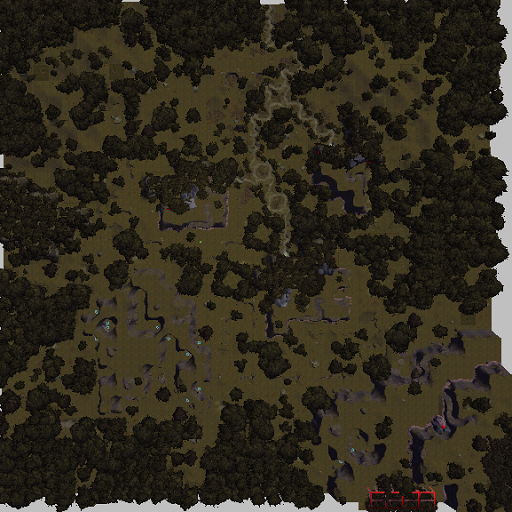
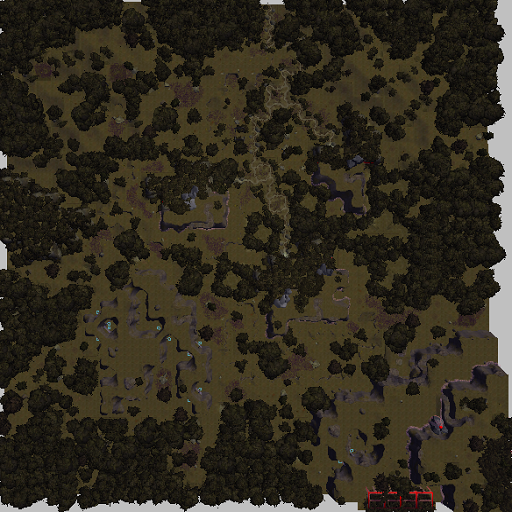
v220412

diff --git a/common.js b/common.js
@@ -13,24 +13,24 @@ var map = {
     csize: 256,
     csize_noscr: 100,
     layers: [[
-        //1              2                3                4                5                6                  7                 8                  9                  10                 11                 12                 13                 14                 15                 16                 17                 18                 19                 20                21                22                     23                 24                 25                 26              27                  28              29              30
-        '0map',          '0map',          '0map',          '0map',          '0map',          '0map',            '0map',            '0map',            '0map',            '0map',            '0map',            '0map',            '0map',            '0map',            '0map',            '0map',            '0map',            '0map',            '0map',            '0map',           '0map',           '0map',                '0map',            '0map',            '0map',            '0map',         '0map',             '0map',         '0map',         '0map',       
-        '0map',          '0map',          '0map',          '0map',          '0map',          '0map',            '0map',            '0map',            '0map',            '0map',            '0map',            '0map',            '0map',            '0map',            '0map',            '0map',            '0map',            '0map',            '0map',            '0map',           '0map',           '0map',                't_varyth_torf_w', 't_varyth_tor',    't_varyth_torf_e', '0map',         '0map',             '0map',         '0map',         '0map',       
-        't_zazesspur_nw','t_zazesspur_ne','0map',          '0map',          '0map',          '0map',            '0map',            '0map',            '0map',            '0map',            '0map',            '0map',            '0map',            '0map',            '0map',            '0map',            '0map',            '0map',            't_lhestyn_quay',  't_masamont_road','t_masamount',    't_masamount_wudn',    't_varyth_torf_sw','t_varyth_torf_s', 't_varyth_torf_se','0map',         '0map',             '0map',         '0map',         '0map',       
-        't_zazesspur_sw','t_zazesspur_se','t_venezir_ne'  ,'SulZaz2',       '0map',          '0map',            't_tethyrcast_nw', 't_tethyrcast_n',  't_tethyrcast_ne', 'SuldusBard1',     '0map',            'IthmonSulW',      't_hostim_quay',   't_ithmn_sul_e',   't_ithmn_sul_e1',  't_ithmn_sul_e2',  't_grannox',       't_grannox_farms', 't_lhestynheart',  't_freelm_farms', 't_freelmanse',   't_masamount_wuds',    't_varyth_plain_w','t_varyth_plain_c','t_varyth_plain_e','0IthalRoadWE', '0IthalRoadWES',    '0IthalRoadWE', '0IthalRoadWS', '0map',       
-        't_venezir_sw',  't_venezir_s',   't_venezir_se'  ,'SulZaz3',       'SulZaz4',       'SulZaz5',         't_tethyrcast_w',  't_tethyrcast',    't_tethyrcast_e',  't_alemwood_nw',   't_alemwood_ne',   't_hostim_hill_nw','t_hostim',        't_hostim_wood',   't_ithmon_crag_nw','t_ithmon_crag_ne','t_lhest_gorge',   't_lhest_farm_sw', 't_lhest_farm_s',  't_lhest_farm_se','t_rivshrehill_n','t_rivshrehill_ne',    't_varyth_hill_nw','t_varyth_hill_n', 't_varyth_hill_ne','0map',         't_iltarghal',      '0map',         't_survale',    '0map',       
-        '0map',          '0map',          't_vintor_okr_1','t_vintor_okr_2','t_vintor_okr_3','t_bardshyr_okr',  't_tethyrcast_sw', 't_tethyrcast_s',  't_tethyrcast_se', 't_alemwood_sw',   't_bardshyr_alem', 't_hostim_hill_w', 't_hostim_road',   't_hostim_hill_e', 't_ithmon_crag_sw','t_ithmon_crag_se','t_qonsir',        't_qonsir_farm',   't_lhest_road',    't_rivshrehill_w','t_rivshrehill_c','t_st_ostus',          't_varyth_hill_sw','t_varyth_hill_s', 't_varyth_hill_se','0map',         '0map',             '0map',         '0IthalRoadNS', '0map',       
-        '0map',          '0map',          '0map',          '0map',          '0map',          't_sahark_crossrd','t_saharkhan',     't_bardshy_itr_1', 't_bardshy_itr_2', 't_bardshy_itr_3', 't_bardshy_itr_4', 't_ithmon_ithr_w1','t_ithmon_ithr_w2','t_ithmon_lorcros','t_ithmon_ithr_e1','t_ithmon_ithr_e2','t_rvrshr_ithrdw', 't_crownfarms_nw', 't_crownfarms_n',  't_crownfarms_ne','t_rivshrehill_s','t_rivshrehill_se',    '0map',            '0map',            't_thrynnar_hold', '0IthalRoadWE', '0IthalRoadWE',     '0IthalRoadWE', '0IthalRoadNWS','0map',       
-        '0map',          '0map',          '0map',          '0map',          '0map',          't_soldieroad_1',  't_saharkhan_sp',  't_sevenstar_rd',  't_sevenstar_hne', 't_brinniqdell_n', '0IthalRoadNS',    't_ithmon_pipe_n', 't_ithmon_farm_nw','t_ithmon_farm_n', 't_ithmon_farm_ne','t_loransewood_n', 't_crownfarms_iw2','t_crownfarms_iw1','t_darromar',      't_foyen_rd',     't_foyen',        '0map',                '0map',            '0map',            '0IthalRoadNS',    '0map',         '0map',             '0map',         '0IthalRoadEN', 't_veaddakar',       
-        '0map',          '0map',          '0map',          't_dasaajk',     '0map',          't_soldieroad_2',  't_jongrathroad11','t_sevenstar',     't_sevenstar_hse', 't_brinniqdell_s', '0IthalRoadWN',    't_ithmon_pipe_s', 't_ithmon_farm_w', 't_ithmon_loranse','t_ithmon_farm_e', 't_loransewood_s', '0map',            't_clov_fld_nw',   't_clov_fld_itr_n','0map',           '0map',           '0map',                '0IthalRoadES',    '0IthalRoadWE',    '0IthalRoadWN',    '0map',         '0map',             '0map',         '0map',         '0map',       
-        '0map',          't_vineshade',   '0map',          '0map',          '0map',          't_krennasar',     't_jongrathroad01','t_jongrathroad02','t_jongrath',      't_jongrathroad03','0map',            't_loranse_swamp', '0map',            '0map',            '0map',            '0map',            't_ruba',          '0IthalRoadWE',    't_clov_fld_itr_s','0IthalRoadWES',  '0IthalRoadWE',   '0IthalRoadWE',        '0IthalRoadNWS',   '0map',            '0map',            '0map',         '0map',             '0map',         '0map',         '0map',       
-        '0map',          '0map',          '0map',          't_redmills',    '0map',          '0IthalRoadWN',    '0map',            '0map',            '0map',            '0map',            '0map',            '0map',            '0map',            '0map',            '0map',            '0map',            '0IthalRoadNS',    '0map',            '0map',            't_abbor',        '0map',           '0map',                '0IthalRoadNES',   '0IthalRoadWE',    '0IthalRoadWE',    '0IthalRoadWE', '0IthalRoadWS',     '0map',         '0map',         '0map',       
-        '0map',          '0map',          '0map',          't_refields_n',  't_refields_ne', '0map',            '0map',            '0map',            '0map',            '0map',            '0map',            '0map',            '0map',            '0map',            't_pelmarin',      '0IthalRoadWE',    '0IthalRoadWN',    '0map',            '0map',            '0map',           '0map',           '0map',                't_mistletoe',     '0map',            '0map',            '0map',         '0IthalRoadNES',    '0IthalRoadWE', '0IthalRoadWES','t_barakmordin',       
-        '0map',          '0map',          't_myratma_w',   't_myratma_e',   't_refields_e',  '0IthalRoadWE',    '0IthalRoadWE',    't_maratimmir',    '0IthalRoadWE',    '0IthalRoadWE',    '0IthalRoadWE',    '0IthalRoadWES',   '0IthalRoadWE',    '0IthalRoadWE',    '0IthalRoadWN',    '0map',            '0map',            '0map',            '0map',            '0map',           '0map',           '0map',                '0map',            '0map',            '0map',            '0map',         '0IthalRoadNS',     '0map',         '0IthalRoadNS', '0map',       
-        '0map',          '0map',          '0map',          '0map',          '0map',          '0map',            '0map',            '0map',            '0map',            '0map',            '0map',            't_fort_teqlar',   't_shoonach_ilt',  't_shoonach_run',  '0map',            '0map',            '0map',            '0map',            '0map',            '0map',           '0map',           '0map',                '0map',            '0map',            '0map',            't_magis_tor',  '0IthalRoadWN',     '0map',         '0IthalRoadNS', '0map',       
-        '0map',          '0map',          '0map',          '0map',          '0map',          '0map',            '0map',            '0map',            '0map',            '0map',            't_shoonach_gaw',  '0map',            '0map',            '0map',            't_shoonach_deb',  '0map',            '0map',            '0map',            '0map',            '0map',           '0map',           '0map',                '0map',            '0map',            '0map',            '0map',         '0map',             '0map',         't_adarthir',   '0map',
-        '0map',          '0map',          '0map',          '0map',          '0map',          '0map',            '0map',            '0map',            '0map',            '0map',            '0map',            't_shoonach_mum',  't_shoonach_imp',  '0map',            't_shoonach_gae',  '0map',            '0map',            '0map',            '0map',            '0map',           '0map',           '0map',                '0map',            '0map',            '0map',            '0map',         '0map',             '0map',         '0map',         '0map',
-        '0map',          '0map',          '0map',          '0map',          '0map',          '0map',            '0map',            '0map',            '0map',            '0map',            '0map',            '0map',            't_shoonach_agi',  '0map',            '0map',            '0map',            '0map',            '0map',            '0map',            '0map',           '0map',           '0map',                '0map',            '0map',            '0map',            '0map',         '0map',             '0map',         '0map',         '0map'                        
+        //1              2                3                4                5                  6                  7                 8                  9                  10                 11                 12                 13                 14                 15                 16                 17                 18                 19                 20                21                22                     23                 24                 25                 26              27                  28              29              30
+        '0map',          '0map',          '0map',          '0map',          '0map',            '0map',            '0map',            '0map',            '0map',            '0map',            '0map',            '0map',            '0map',            '0map',            '0map',            '0map',            '0map',            '0map',            '0map',            '0map',           '0map',           '0map',                '0map',            '0map',            '0map',            '0map',         '0map',             '0map',         '0map',         '0map',       
+        '0map',          '0map',          '0map',          '0map',          '0map',            '0map',            '0map',            '0map',            '0map',            '0map',            '0map',            '0map',            '0map',            '0map',            '0map',            '0map',            '0map',            '0map',            '0map',            '0map',           '0map',           '0map',                't_varyth_torf_w', 't_varyth_tor',    't_varyth_torf_e', '0map',         '0map',             '0map',         '0map',         '0map',       
+        't_zazesspur_nw','t_zazesspur_ne','0map',          '0map',          '0map',            '0map',            '0map',            '0map',            '0map',            '0map',            '0map',            '0map',            '0map',            '0map',            '0map',            '0map',            '0map',            '0map',            't_lhestyn_quay',  't_masamont_road','t_masamount',    't_masamount_wudn',    't_varyth_torf_sw','t_varyth_torf_s', 't_varyth_torf_se','0map',         '0map',             '0map',         '0map',         '0map',       
+        't_zazesspur_sw','t_zazesspur_se','t_venezir_ne'  ,'SulZaz2',       '0map',            '0map',            't_tethyrcast_nw', 't_tethyrcast_n',  't_tethyrcast_ne', 'SuldusBard1',     '0map',            'IthmonSulW',      't_hostim_quay',   't_ithmn_sul_e',   't_ithmn_sul_e1',  't_ithmn_sul_e2',  't_grannox',       't_grannox_farms', 't_lhestynheart',  't_freelm_farms', 't_freelmanse',   't_masamount_wuds',    't_varyth_plain_w','t_varyth_plain_c','t_varyth_plain_e','0IthalRoadWE', '0IthalRoadWES',    '0IthalRoadWE', '0IthalRoadWS', '0map',       
+        't_venezir_sw',  't_venezir_s',   't_venezir_se'  ,'SulZaz3',       'SulZaz4',         'SulZaz5',         't_tethyrcast_w',  't_tethyrcast',    't_tethyrcast_e',  't_alemwood_nw',   't_alemwood_ne',   't_hostim_hill_nw','t_hostim',        't_hostim_wood',   't_ithmon_crag_nw','t_ithmon_crag_ne','t_lhest_gorge',   't_lhest_farm_sw', 't_lhest_farm_s',  't_lhest_farm_se','t_rivshrehill_n','t_rivshrehill_ne',    't_varyth_hill_nw','t_varyth_hill_n', 't_varyth_hill_ne','0map',         't_iltarghal',      '0map',         't_survale',    '0map',       
+        '0map',          '0map',          't_vintor_okr_1','t_vintor_okr_2','t_vintor_okr_3',  't_bardshyr_okr',  't_tethyrcast_sw', 't_tethyrcast_s',  't_tethyrcast_se', 't_alemwood_sw',   't_bardshyr_alem', 't_hostim_hill_w', 't_hostim_road',   't_hostim_hill_e', 't_ithmon_crag_sw','t_ithmon_crag_se','t_qonsir',        't_qonsir_farm',   't_lhest_road',    't_rivshrehill_w','t_rivshrehill_c','t_st_ostus',          't_varyth_hill_sw','t_varyth_hill_s', 't_varyth_hill_se','0map',         '0map',             '0map',         '0IthalRoadNS', '0map',       
+        '0map',          '0map',          '0map',          '0map',          '0map',            't_sahark_crossrd','t_saharkhan',     't_bardshy_itr_1', 't_bardshy_itr_2', 't_bardshy_itr_3', 't_bardshy_itr_4', 't_ithmon_ithr_w1','t_ithmon_ithr_w2','t_ithmon_lorcros','t_ithmon_ithr_e1','t_ithmon_ithr_e2','t_rvrshr_ithrdw', 't_crownfarms_nw', 't_crownfarms_n',  't_crownfarms_ne','t_rivshrehill_s','t_rivshrehill_se',    '0map',            '0map',            't_thrynnar_hold', '0IthalRoadWE', '0IthalRoadWE',     '0IthalRoadWE', '0IthalRoadNWS','0map',       
+        '0map',          '0map',          '0map',          '0map',          '0map',            't_soldieroad_1',  't_saharkhan_sp',  't_sevenstar_rd',  't_sevenstar_hne', 't_brinniqdell_n', '0IthalRoadNS',    't_ithmon_pipe_n', 't_ithmon_farm_nw','t_ithmon_farm_n', 't_ithmon_farm_ne','t_loransewood_n', 't_crownfarms_iw2','t_crownfarms_iw1','t_darromar',      't_foyen_rd',     't_foyen',        '0map',                '0map',            '0map',            '0IthalRoadNS',    '0map',         '0map',             '0map',         '0IthalRoadEN', 't_veaddakar',       
+        '0map',          '0map',          '0map',          't_dasaajk',     '0map',            't_soldieroad_2',  't_jongrathroad11','t_sevenstar',     't_sevenstar_hse', 't_brinniqdell_s', '0IthalRoadWN',    't_ithmon_pipe_s', 't_ithmon_farm_w', 't_ithmon_loranse','t_ithmon_farm_e', 't_loransewood_s', '0map',            't_clov_fld_nw',   't_clov_fld_itr_n','0map',           '0map',           '0map',                '0IthalRoadES',    '0IthalRoadWE',    '0IthalRoadWN',    '0map',         '0map',             '0map',         '0map',         '0map',       
+        '0map',          't_vineshade',   '0map',          '0map',          '0map',            't_krennasar',     't_jongrathroad01','t_jongrathroad02','t_jongrath',      't_jongrathroad03','0map',            't_loranse_swamp', '0map',            '0map',            '0map',            '0map',            't_ruba',          '0IthalRoadWE',    't_clov_fld_itr_s','0IthalRoadWES',  '0IthalRoadWE',   '0IthalRoadWE',        '0IthalRoadNWS',   '0map',            '0map',            '0map',         '0map',             '0map',         '0map',         '0map',       
+        '0map',          '0map',          '0map',          't_redmills',    't_elem_solroad01','t_elem_solroa002','0map',            '0map',            '0map',            '0map',            '0map',            '0map',            '0map',            '0map',            '0map',            '0map',            '0IthalRoadNS',    '0map',            '0map',            't_abbor',        '0map',           '0map',                '0IthalRoadNES',   '0IthalRoadWE',    '0IthalRoadWE',    '0IthalRoadWE', '0IthalRoadWS',     '0map',         '0map',         '0map',       
+        '0map',          '0map',          '0map',          't_refields_n',  't_refields_ne',   '0map',            '0map',            '0map',            '0map',            '0map',            '0map',            '0map',            '0map',            '0map',            't_pelmarin',      '0IthalRoadWE',    '0IthalRoadWN',    '0map',            '0map',            '0map',           '0map',           '0map',                't_mistletoe',     '0map',            '0map',            '0map',         '0IthalRoadNES',    '0IthalRoadWE', '0IthalRoadWES','t_barakmordin',       
+        '0map',          '0map',          't_myratma_w',   't_myratma_e',   't_refields_e',    '0IthalRoadWE',    '0IthalRoadWE',    't_maratimmir',    '0IthalRoadWE',    '0IthalRoadWE',    '0IthalRoadWE',    '0IthalRoadWES',   '0IthalRoadWE',    '0IthalRoadWE',    '0IthalRoadWN',    '0map',            '0map',            '0map',            '0map',            '0map',           '0map',           '0map',                '0map',            '0map',            '0map',            '0map',         '0IthalRoadNS',     '0map',         '0IthalRoadNS', '0map',       
+        '0map',          '0map',          '0map',          '0map',          '0map',            '0map',            '0map',            '0map',            '0map',            '0map',            '0map',            't_fort_teqlar',   't_shoonach_ilt',  't_shoonach_run',  '0map',            '0map',            '0map',            '0map',            '0map',            '0map',           '0map',           '0map',                '0map',            '0map',            '0map',            't_magis_tor',  '0IthalRoadWN',     '0map',         '0IthalRoadNS', '0map',       
+        '0map',          '0map',          '0map',          '0map',          '0map',            '0map',            '0map',            '0map',            '0map',            '0map',            't_shoonach_gaw',  '0map',            '0map',            '0map',            't_shoonach_deb',  '0map',            '0map',            '0map',            '0map',            '0map',           '0map',           '0map',                '0map',            '0map',            '0map',            '0map',         '0map',             '0map',         't_adarthir',   '0map',
+        '0map',          '0map',          '0map',          '0map',          '0map',            '0map',            '0map',            '0map',            '0map',            '0map',            '0map',            't_shoonach_mum',  't_shoonach_imp',  '0map',            't_shoonach_gae',  '0map',            '0map',            '0map',            '0map',            '0map',           '0map',           '0map',                '0map',            '0map',            '0map',            '0map',         '0map',             '0map',         '0map',         '0map',
+        '0map',          '0map',          '0map',          '0map',          '0map',            '0map',            '0map',            '0map',            '0map',            '0map',            '0map',            '0map',            't_shoonach_agi',  '0map',            '0map',            '0map',            '0map',            '0map',            '0map',            '0map',           '0map',           '0map',                '0map',            '0map',            '0map',            '0map',         '0map',             '0map',         '0map',         '0map'                        
     ], [
       //                  10                  20                  30
       //1 2 3 4 5 6 7 8 9   1 2 3 4 5 6 7 8 9   1 2 3 4 5 6 7 8 9
